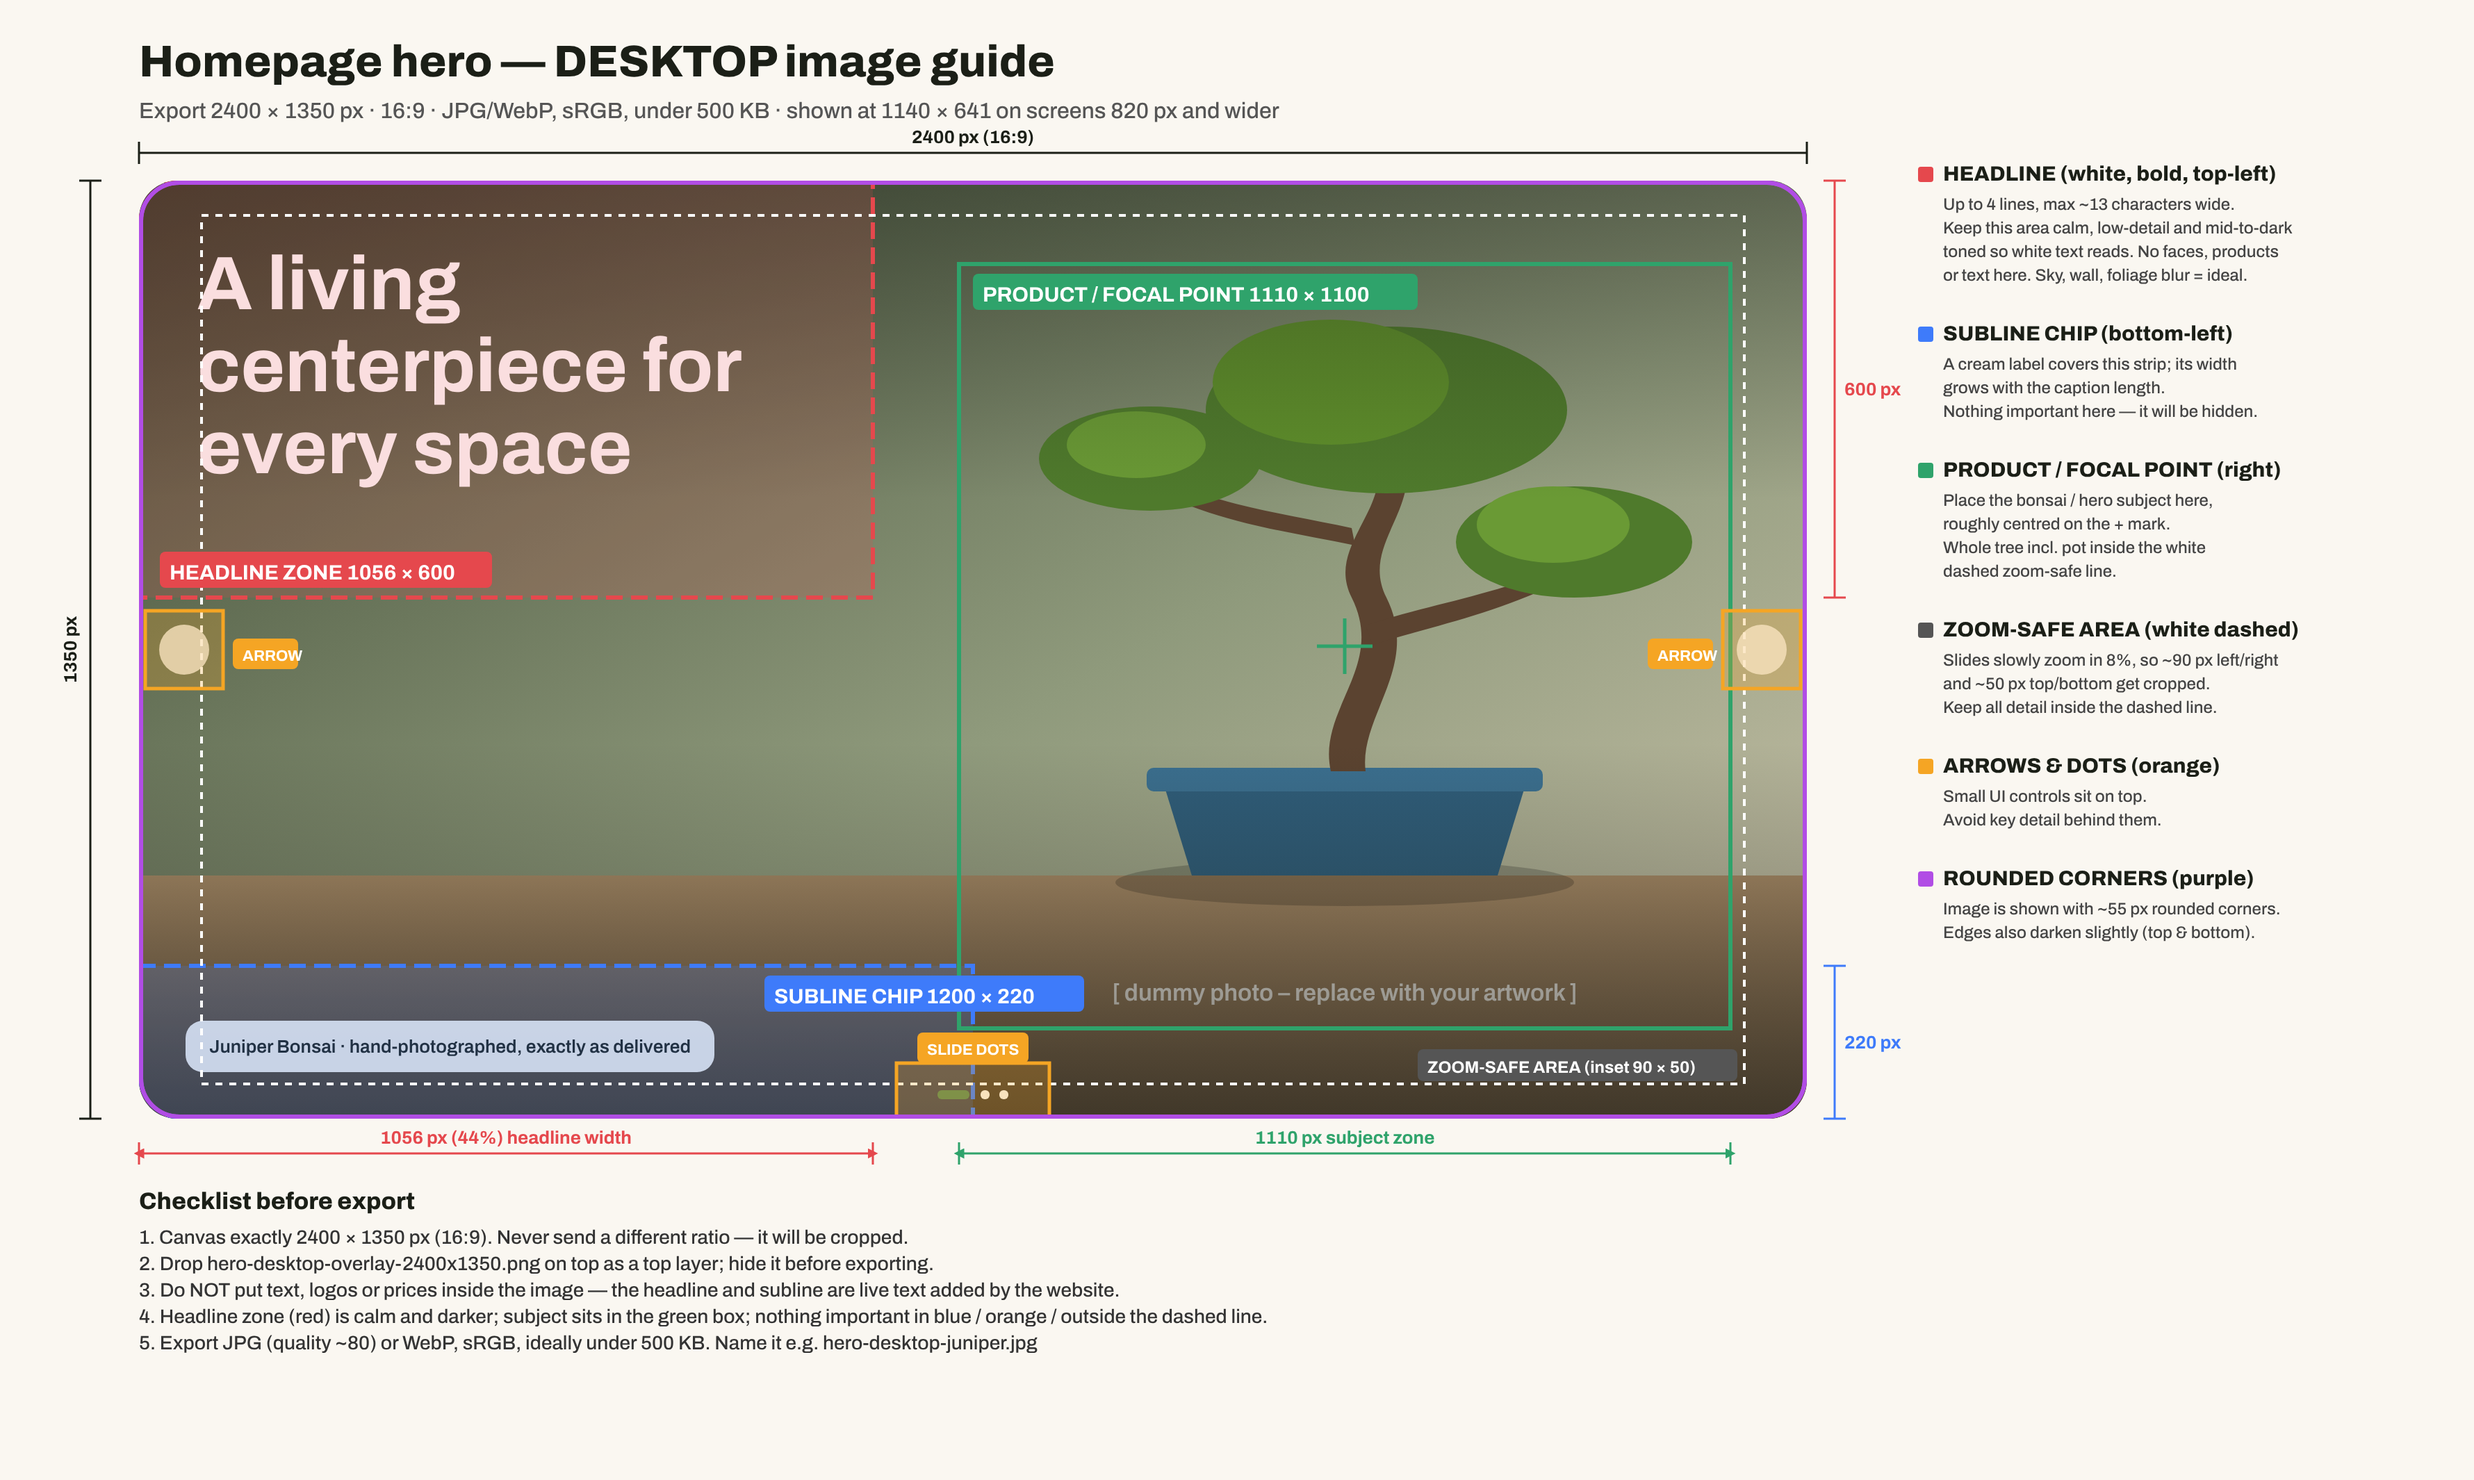
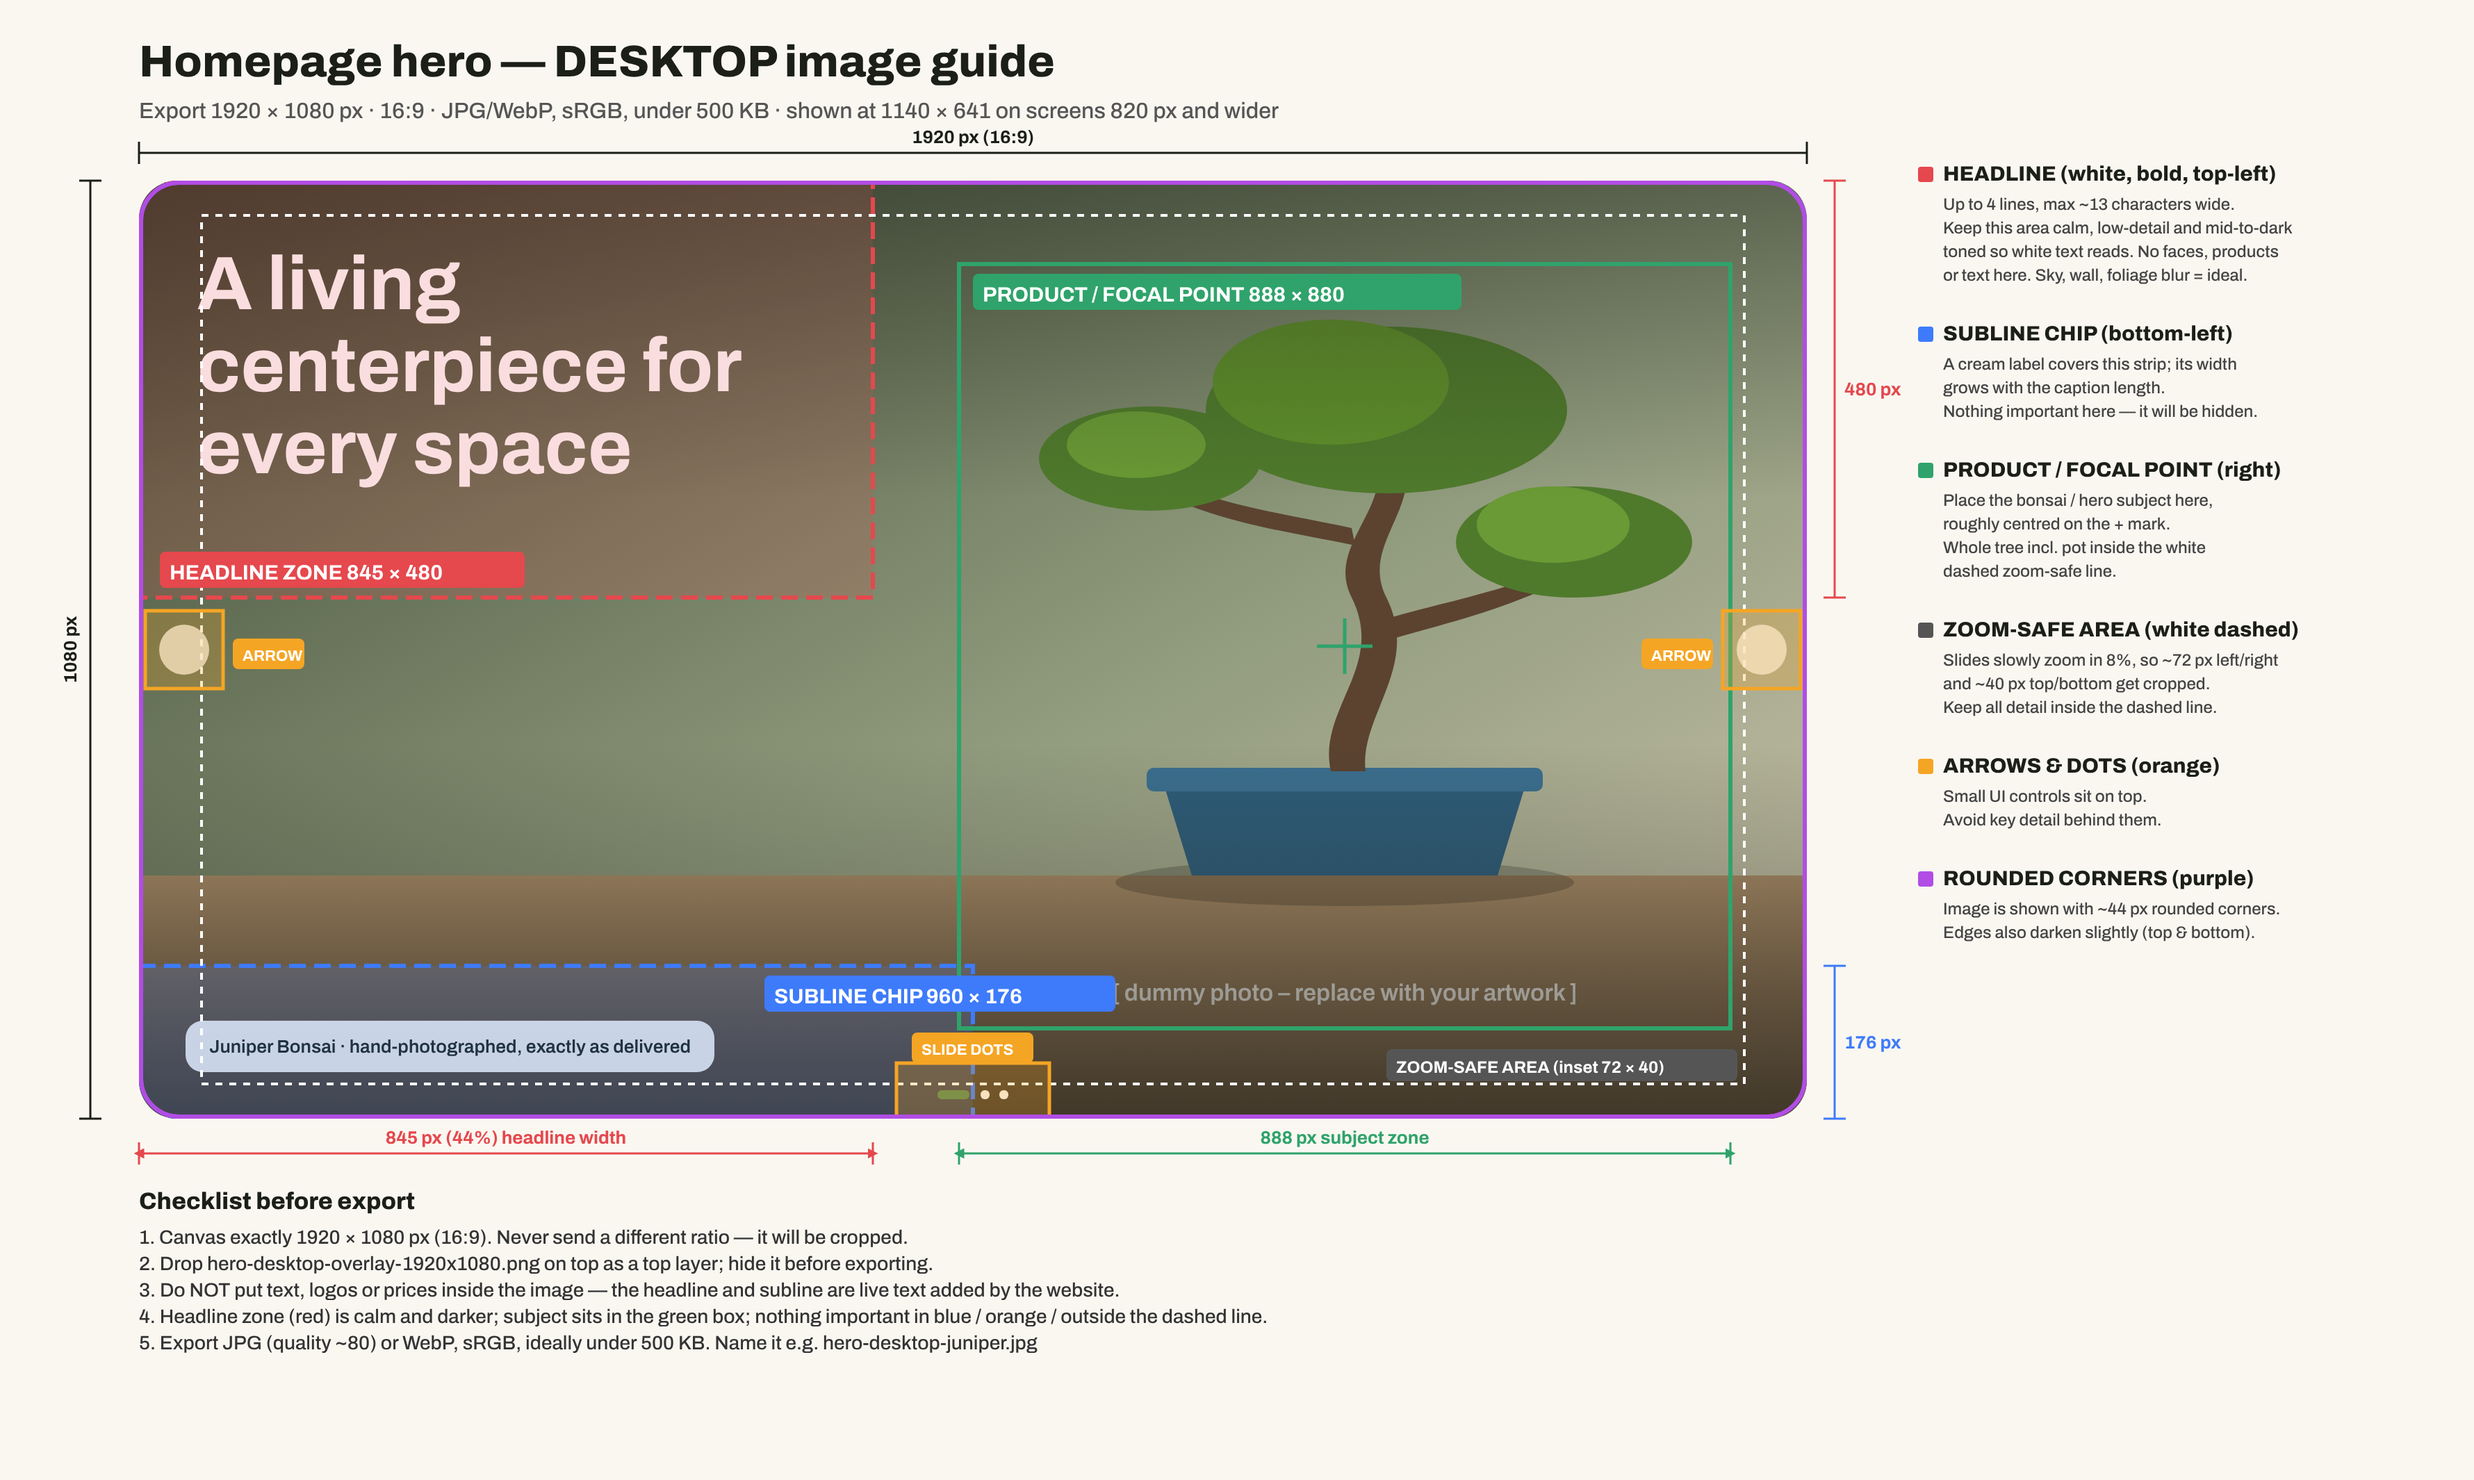
Switch desktop hero image guide to 1920x1080
Replace the 2400x1350 overlay and preview with 1920x1080 versions,
re-number the zones on the guide sheet and README, and widen the
small labels so their text fits.

Claude-Session: https://claude.ai/code/session_01LDQ39fVotKE4EmjuxN5znS

diff --git a/design/hero-image-guide/README.md b/design/hero-image-guide/README.md
@@ -7,13 +7,13 @@ The measurements come from the theme's live CSS (`assets/bonsai-theme.css`, `.bh
 
 | | |
 |---|---|
-| Export size | **2400 × 1350 px** (16:9), JPG/WebP, sRGB, ideally < 500 KB |
-| Shown on site at | 1140 × 641 CSS px (≈2.1× for sharp retina) |
-| Headline zone (top-left, white bold text, up to 4 lines) | 1056 × 600 px from the top-left corner |
-| Subline chip (bottom-left, cream label covers the image) | 1200 × 220 px from the bottom-left corner |
-| Product / focal point | right side, x 1180–2290, y 120–1220 |
-| Zoom-safe area (slides slowly zoom 8%) | inset 90 px left/right, 50 px top/bottom |
-| Rounded corners | ≈55 px radius |
+| Export size | **1920 × 1080 px** (16:9), JPG/WebP, sRGB, ideally < 500 KB |
+| Shown on site at | 1140 × 641 CSS px (1920 is ≈1.7×; on retina screens, 2400 × 1350 would be slightly sharper) |
+| Headline zone (top-left, white bold text, up to 4 lines) | 845 × 480 px from the top-left corner |
+| Subline chip (bottom-left, cream label covers the image) | 960 × 176 px from the bottom-left corner |
+| Product / focal point | right side, x 944–1832, y 96–976 |
+| Zoom-safe area (slides slowly zoom 8%) | inset 72 px left/right, 40 px top/bottom |
+| Rounded corners | ≈44 px radius |
 | Arrows / dots | vertical centre at each edge; bottom centre |
 
 Do not put text, logos or prices in the image. The headline and subline are live text that the site adds.
@@ -21,8 +21,8 @@ Do not put text, logos or prices in the image. The headline and subline are live
 ### Files
 
 - `hero-desktop-guide.png`: annotated reference sheet (send this to the designer)
-- `hero-desktop-overlay-2400x1350.png` / `.svg`: transparent overlay; place it as the top layer in Photoshop/Figma and hide it before export
-- `hero-desktop-preview-2400x1350.png`: dummy photo with the real headline, chip and controls, showing how the result looks on the site
+- `hero-desktop-overlay-1920x1080.png` / `.svg`: transparent overlay; place it as the top layer in Photoshop/Figma and hide it before export
+- `hero-desktop-preview-1920x1080.png`: dummy photo with the real headline, chip and controls, showing how the result looks on the site
 
 ## Mobile
 
